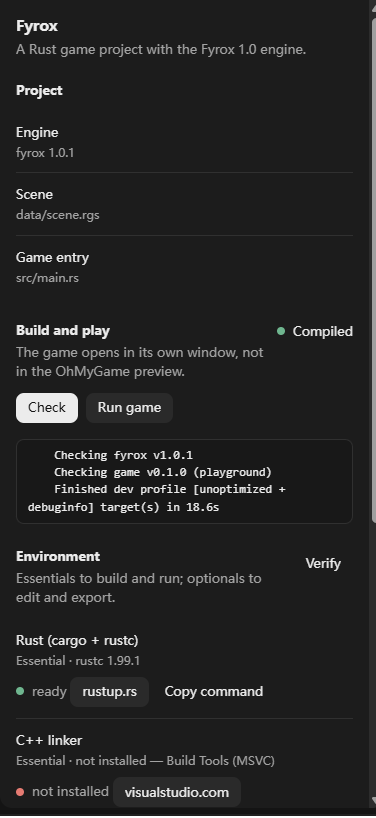
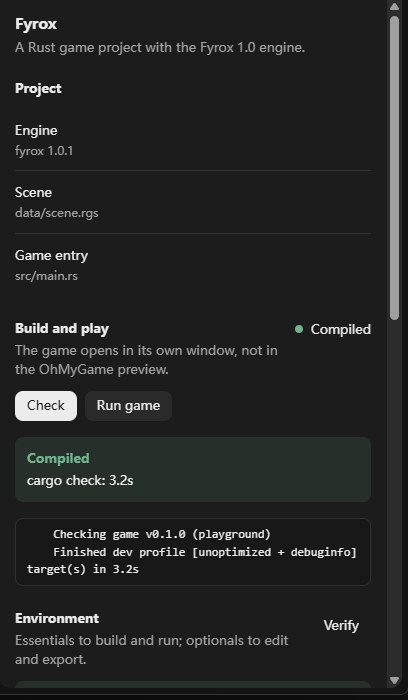
Update screenshots, add sync script and release notes

diff --git a/CHANGELOG.md b/CHANGELOG.md
@@ -1,0 +1,25 @@
+# Changelog
+
+## 0.1.0
+
+First release.
+
+- Project types:
+  - **Fyrox game (Rust)** — lean single crate with the starter 3D scene, the
+    executor and the game plugin.
+  - **Fyrox complete (workspace)** — the official layout with `game/`,
+    `executor/`, an editor built with the game plugin, hot reload, web and
+    Android executors and the export CLI.
+- Panel:
+  - project facts (engine version, scenes, entry point);
+  - Check and Run game with the cargo output, elapsed time and plain-language
+    failures (linker, compilation, missing cargo, network);
+  - Environment check with the Rust version gate, a real linker test, Clippy,
+    Fyroxed (portable, detected or pointed to) and the project manager (cargo);
+  - Install/Update through cargo and rustup, with progress and result toasts;
+  - a build folder on another drive (`CARGO_TARGET_DIR`) and free-space display;
+  - readiness gate before a prompt, with localized messages (English and
+    Portuguese).
+- Agent Skill: Fyrox 1.0.1 API, scenes, scripts, assets, compile loop and a
+  troubleshooting reference.
+- MIT license. The starter scene comes from the official Fyrox template.

diff --git a/CONTRIBUTING.md b/CONTRIBUTING.md
@@ -1,0 +1,28 @@
+# Developing this plugin
+
+The source in this repository is a synced copy of the OhMyGame Plugin Builder
+draft. Edit and preview the plugin in the builder, then copy it here:
+
+```powershell
+powershell -ExecutionPolicy Bypass -File .\sync.ps1 -Source "C:\Users\<you>\AppData\Roaming\ohmygame\data\plugin-setup\<session>\workspace\fyrox"
+```
+
+Review `git status` and `git diff`, then commit and push. Raise `version` in
+`.ohmygame-plugin/plugin.json` for each release and add its notes to
+`CHANGELOG.md`.
+
+The builder checks the package (`prepare`), but also:
+
+- install it and try both project types in a project;
+- look at the panel at a narrow width and in the light theme;
+- keep the MIT license and the Fyrox template credit.
+
+## Layout
+
+- `.ohmygame-plugin/` — manifest.
+- `panel/`, `native/` — the page and the code it runs.
+- `skills/fyrox/` — the agent Skill and its references.
+- `template/` — lean single-crate project.
+- `template-full/` — official workspace (game, executor, editor, hot reload,
+  web and Android executors, export CLI).
+- `assets/`, `locales/`, `README.md`, `LICENSE`.

diff --git a/README.md b/README.md
@@ -55,6 +55,7 @@ OhMyGame web preview.
 ## Links
 
 - Author: [ocerqueira](https://github.com/ocerqueira) · <https://ocerqueira.com>
+- Repository: <https://github.com/ocerqueira/ohmygame-fyrox>
 - Fyrox: <https://fyrox.rs> · Book: <https://fyrox-book.github.io/>
 - Fyrox API 1.0: <https://docs.rs/fyrox/1.0.1/fyrox/>
 
